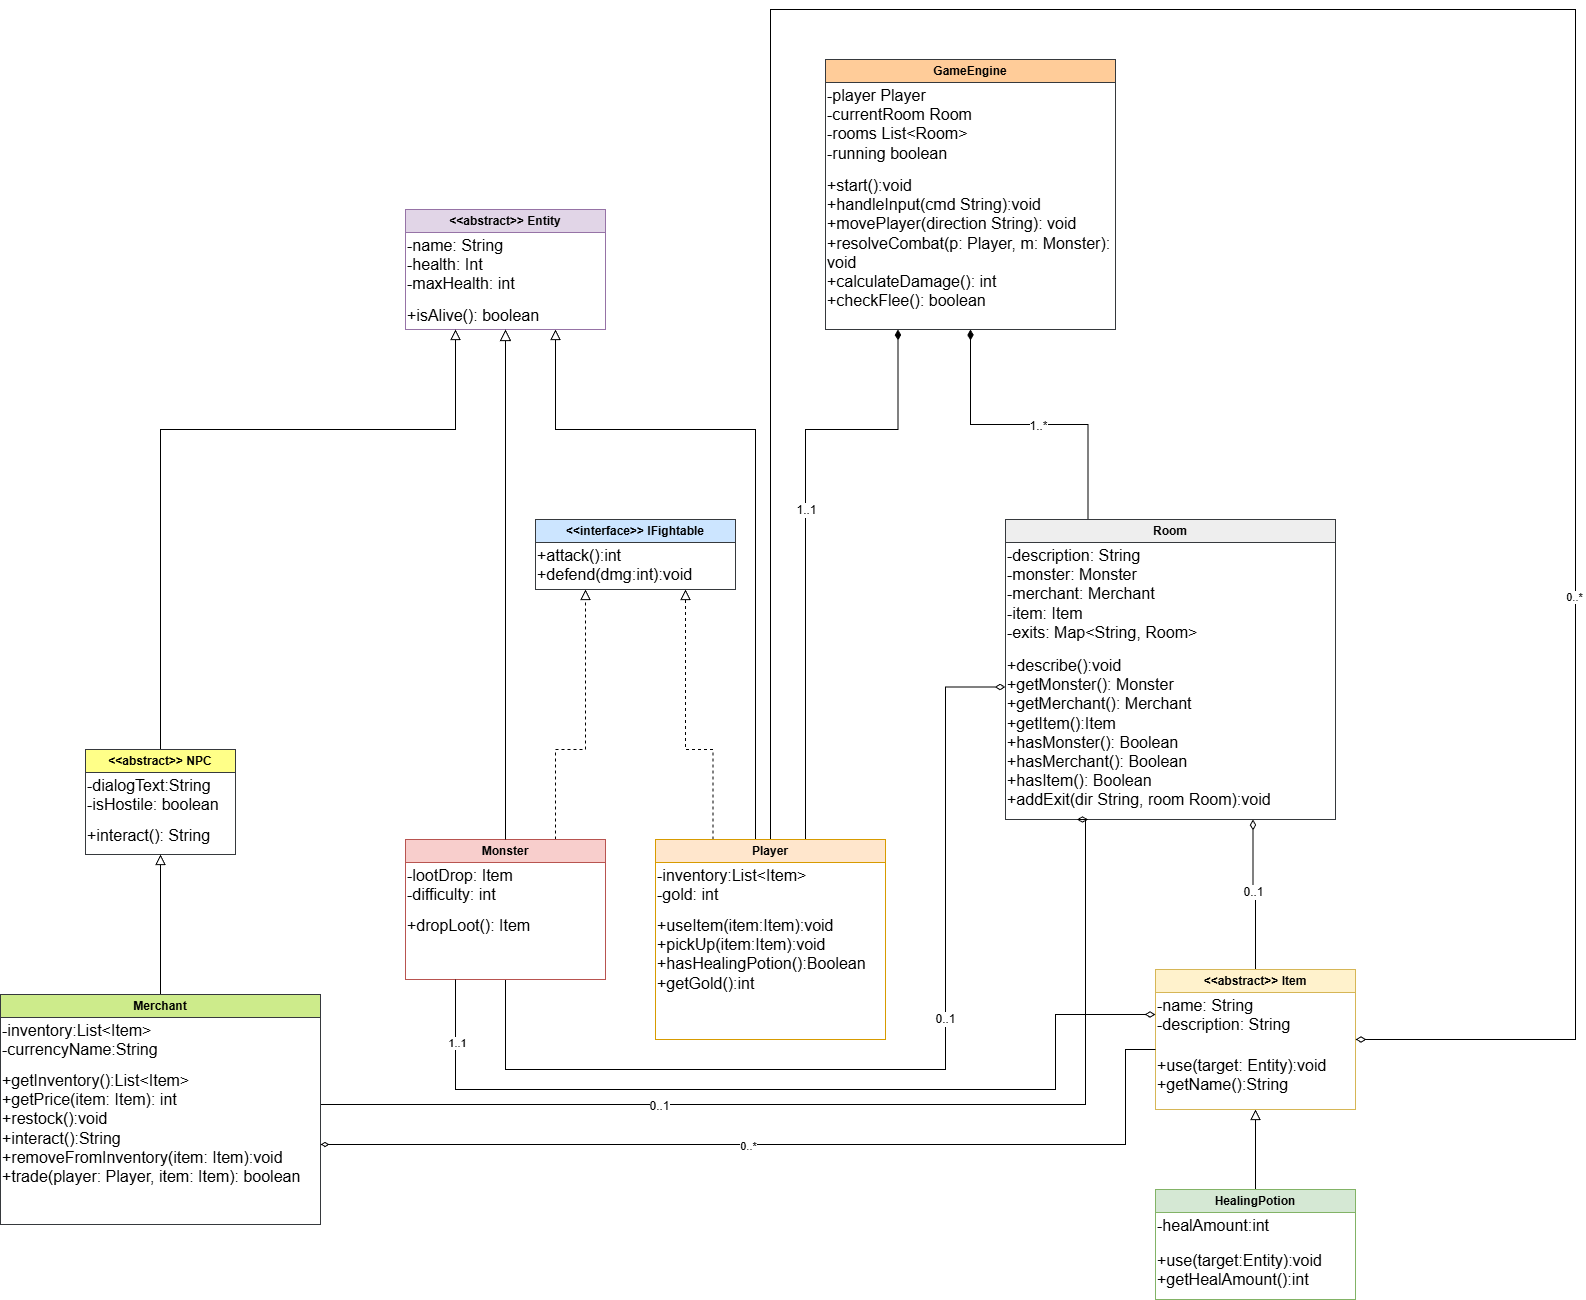
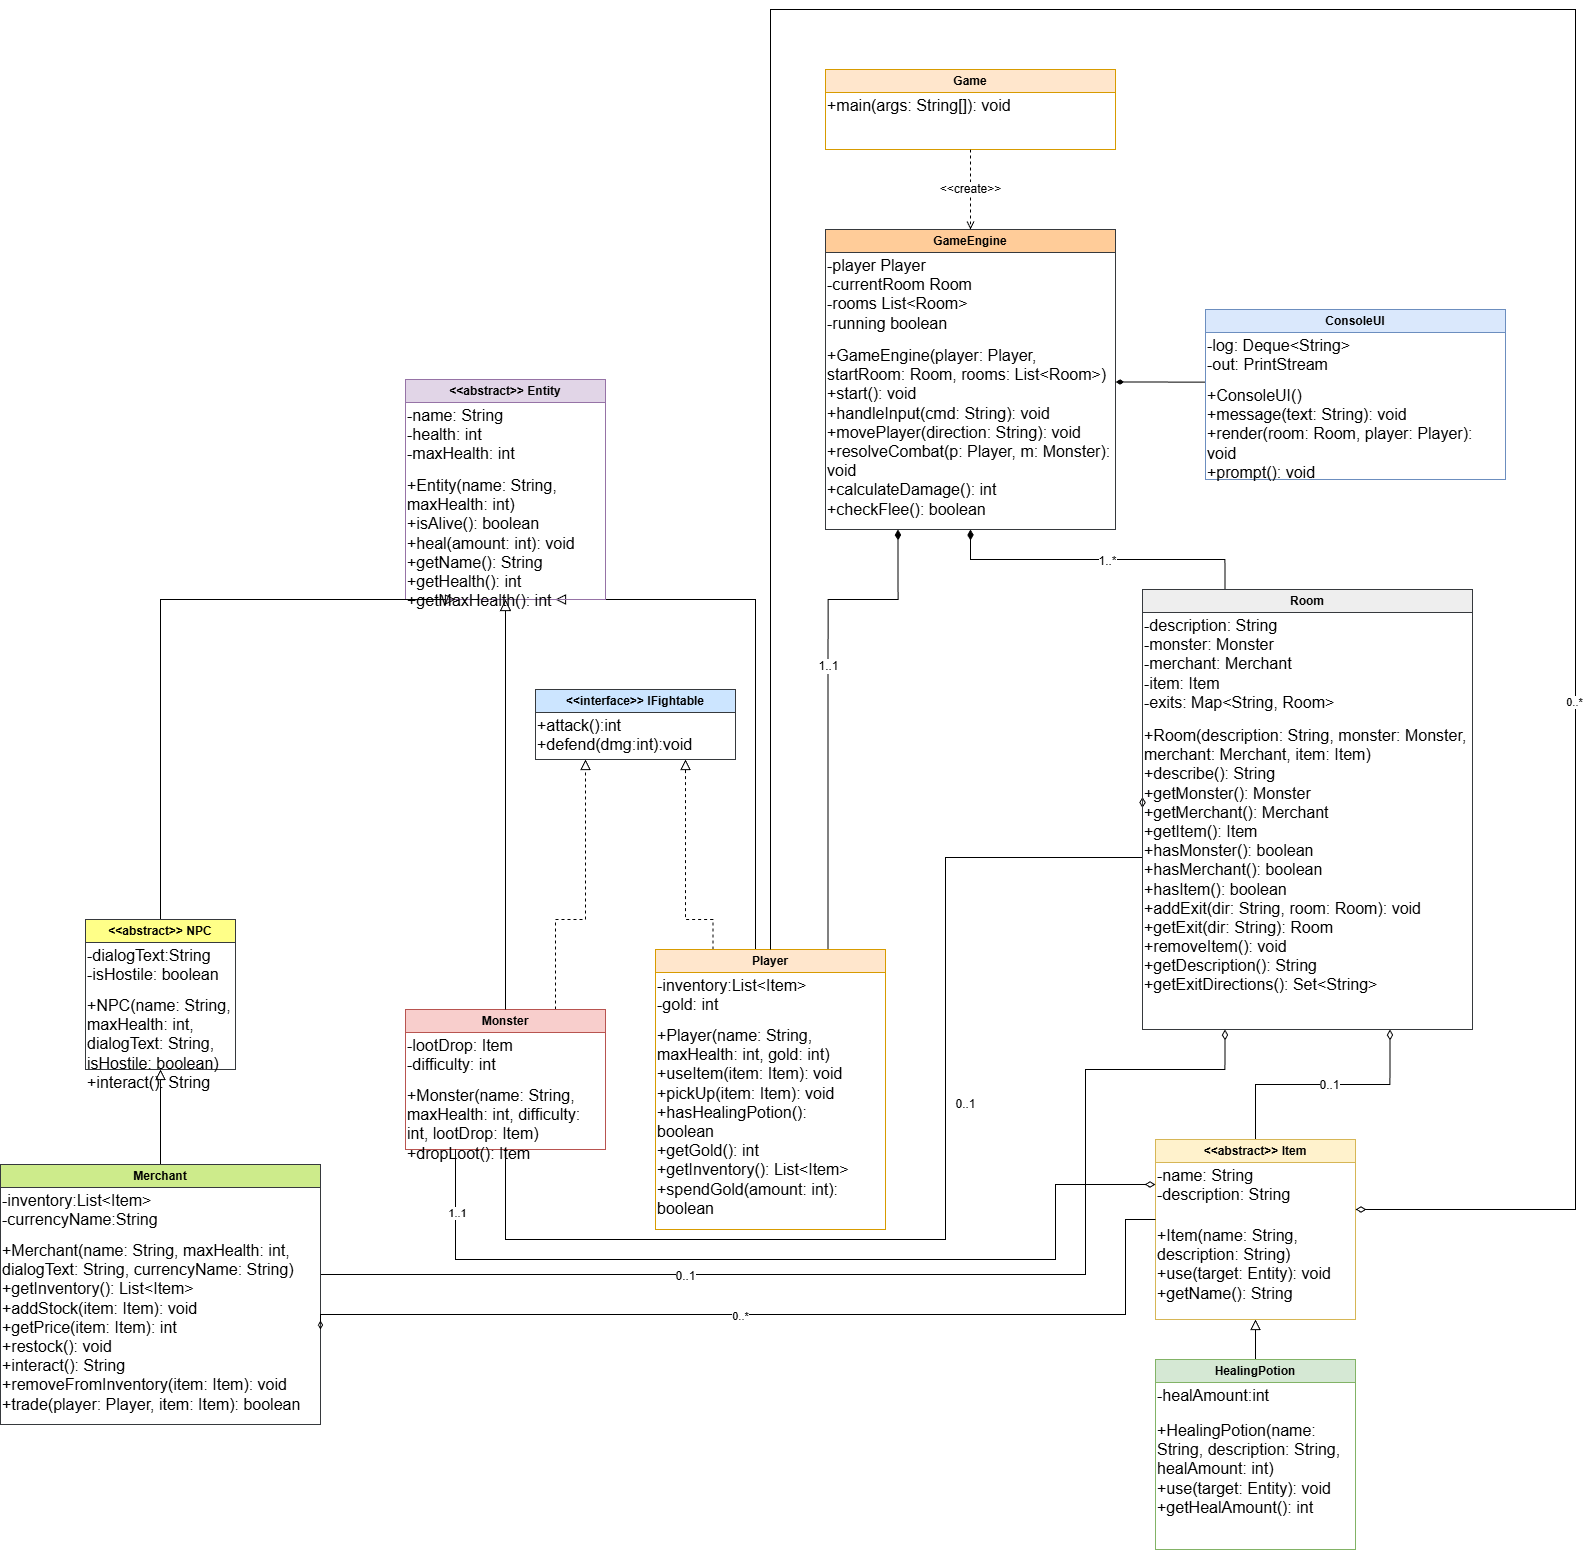
Update UML diagram and enhance game mechanics with new monsters and merchants

diff --git a/Game.java b/Game.java
@@ -5,30 +5,56 @@ import java.util.List;
 public class Game {
 
     public static void main(String[] args) {
-        Player player = new Player("Hero", 100, 50);
+        Player player = new Player("Hero", 100, 80);
 
         Monster goblin = new Monster("Goblin", 30, 8,
                 new HealingPotion("Potion", "Restores health.", 20));
+        Monster orc = new Monster("Orc Brute", 55, 12,
+                new HealingPotion("Liquid Courage", "Tastes like regret. Restores 40 health.", 40));
+        Monster troll = new Monster("Cave Troll", 90, 16,
+                new HealingPotion("Troll Tonic", "Thick, green and warm. Restores 70 health.", 70));
 
         Merchant trader = new Merchant("Trader", 100,
                 "Welcome, traveler. Type 'buy <item>' to purchase.", "Gold");
         trader.addStock(new HealingPotion("Potion", "Restores health.", 20));
         trader.addStock(new HealingPotion("Elixir", "Restores a lot of health.", 50));
 
+        Merchant alchemist = new Merchant("Mad Alchemist", 100,
+                "Heh heh... fresh brews! Type 'buy <item>' if you dare.", "Gold");
+        alchemist.addStock(new HealingPotion("Questionable Brew", "Smells faintly of feet. Restores 15 health.", 15));
+        alchemist.addStock(new HealingPotion("Definitely Not Poison", "Just trust the label. Restores 30 health.", 30));
+        alchemist.addStock(new HealingPotion("Grandma's Mystery Juice", "Nobody asks what is in it. Restores 60 health.", 60));
+
         Room entrance = new Room("A damp stone entrance hall.", null, null, null);
         Room lair = new Room("A dark lair reeking of decay.", goblin, null,
                 new HealingPotion("Potion", "Restores health.", 20));
         Room shop = new Room("A small candle-lit alcove.", null, trader, null);
+        Room chamber = new Room("A pillared chamber, the air thick with dust.", orc, null,
+                new HealingPotion("Elixir", "Restores a lot of health.", 50));
+        Room apothecary = new Room("A cluttered apothecary, shelves crammed with bubbling vials.",
+                null, alchemist, null);
+        Room crypt = new Room("A vast crypt. Something enormous stirs in the shadows.", troll, null,
+                new HealingPotion("Elixir", "Restores a lot of health.", 50));
 
         entrance.addExit("north", lair);
         lair.addExit("south", entrance);
         entrance.addExit("east", shop);
         shop.addExit("west", entrance);
 
+        lair.addExit("north", chamber);
+        chamber.addExit("south", lair);
+        chamber.addExit("east", apothecary);
+        apothecary.addExit("west", chamber);
+        chamber.addExit("north", crypt);
+        crypt.addExit("south", chamber);
+
         List<Room> rooms = new ArrayList<>();
         rooms.add(entrance);
         rooms.add(lair);
         rooms.add(shop);
+        rooms.add(chamber);
+        rooms.add(apothecary);
+        rooms.add(crypt);
 
         new GameEngine(player, entrance, rooms).start();
     }

diff --git a/README.md b/README.md
@@ -1,7 +1,7 @@
 # Dungeon Adventure
 
 Ein kleines textbasiertes Konsolenspiel in Java. Der Spieler erkundet einen Dungeon aus mehreren Räumen, kämpft gegen Monster, handelt mit Merchants und sammelt Gegenstände. 
-Ziel ist es, den Dungeon lebendig zu überstehen.
+Ziel ist es, möglichst lange zu überleben – das Spiel endet, wenn der Spieler stirbt oder es per `quit` beendet wird.
 
 Das Projekt entstand im Rahmen der Ausbildung/SEPE (UML-Modellierung + OOP-Implementierung).
 
@@ -11,7 +11,7 @@ Das Projekt entstand im Rahmen der Ausbildung/SEPE (UML-Modellierung + OOP-Imple
 - Rundenbasiertes Kampfsystem (Spieler vs. Monster)
 - Handelssystem mit einem Merchant (Items kaufen, Gold verwalten)
 - Aufsammeln und Einsetzen von Gegenständen (z. B. HealingPotion)
-- Ein vollständiger Spieldurchlauf von Start bis Sieg oder Niederlage
+- Offene Erkundung ohne festes Spielende – beendet durch den Tod des Spielers oder per `quit`
 
 ## Voraussetzungen
 
@@ -59,6 +59,37 @@ Oder manuell:
 javac -encoding UTF-8 -d out Game.java dungeonadventure/*.java
 java -cp out Game
 ```
+
+## Spielablauf
+
+Gesteuert wird über einfache Textbefehle in der Konsole. Oben wird der aktuelle Raum
+angezeigt, darunter ein Log der letzten Ereignisse und eine Statuszeile mit HP-Balken,
+Gold und Anzahl der Items.
+
+### Befehle
+
+| Befehl | Wirkung |
+|--------|---------|
+| `go <richtung>` | In die angegebene Richtung gehen (z. B. `go north`) |
+| `fight` | Gegen das Monster im Raum kämpfen (eine Runde pro Eingabe) |
+| `take` | Den Gegenstand im Raum aufheben |
+| `talk` | Mit dem Merchant sprechen – zeigt Sortiment und Preise |
+| `buy <item>` | Einen Gegenstand beim Merchant kaufen (z. B. `buy Potion`) |
+| `use <item>` | Einen Gegenstand benutzen (z. B. `use Potion` zum Heilen) |
+| `inventory` / `inv` | Inventar und Gold anzeigen |
+| `look` | Den aktuellen Raum erneut beschreiben |
+| `quit` / `exit` | Das Spiel beenden |
+
+Item-Namen sind nicht case-sensitiv – `buy potion` funktioniert genauso wie `buy Potion`.
+
+### Hinweise
+
+- **Kampf** läuft rundenweise ab: Pro `fight` schlägt zuerst der Spieler zu, danach das
+  Monster. Sinkt die HP des Spielers unter 50 und er besitzt einen Heiltrank, trinkt er
+  automatisch einen.
+- **Beim Verlassen eines Raums** füllt der Merchant sein Sortiment wieder auf, und ein
+  besiegtes Monster erwacht beim nächsten Betreten erneut.
+- Das Spiel endet, wenn der Spieler stirbt oder `quit` eingegeben wird.
 
 ## Projektstruktur
 
